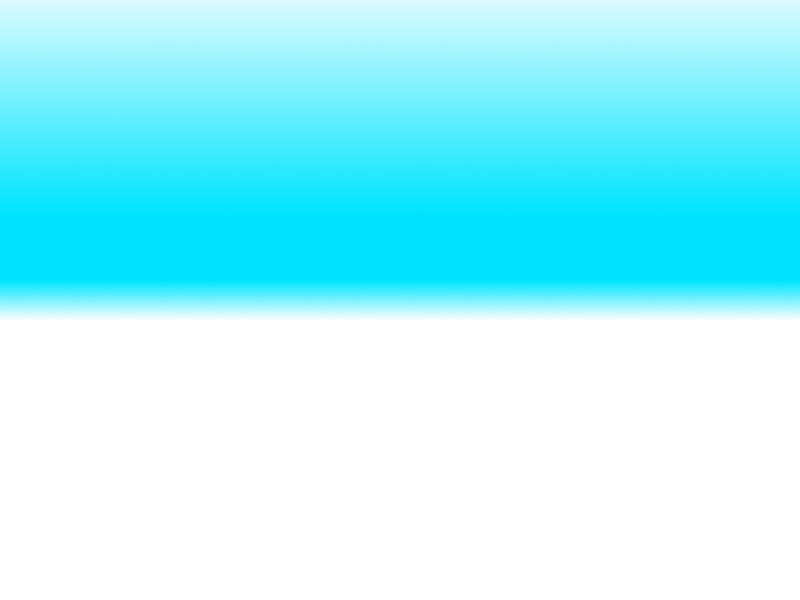
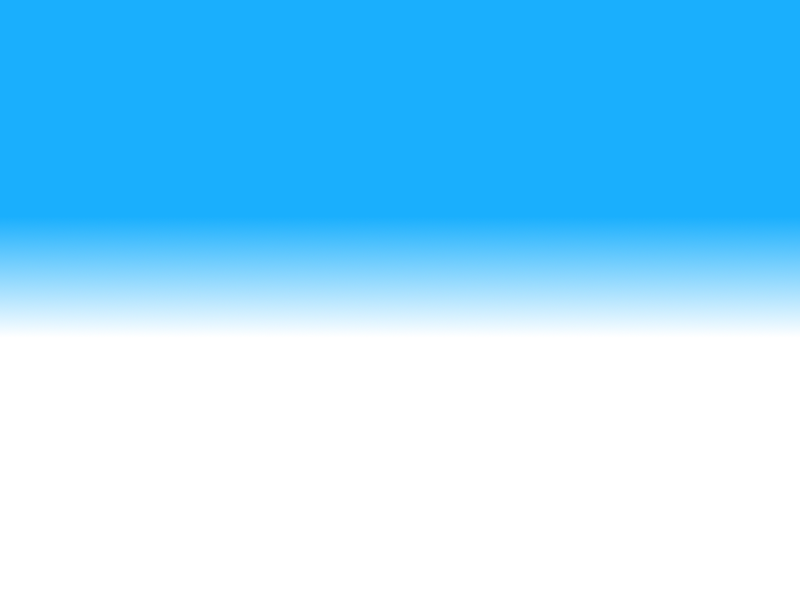
adjust colors and lighting

diff --git a/src/main.js b/src/main.js
@@ -170,15 +170,15 @@ ChatInstance.listen((emotes) => {
 /*
 	Ocean setup
 */
-const ambientLight = new THREE.AmbientLight(new THREE.Color('#1EFFF7'), 0.25);
+const ambientLight = new THREE.AmbientLight(new THREE.Color('#9EFFF7'), 0.1);
 const sunLight = new THREE.DirectionalLight(new THREE.Color('#FFFFFF'), 1);
-sunLight.position.set(0.1, 1, 0.25);
+sunLight.position.set(0.1, 1, -0.25);
 scene.add(ambientLight);
 scene.add(sunLight);
 
 import skyTextureURL from './sky.png';
 const skyTexture = new THREE.TextureLoader().load(skyTextureURL);
-scene.fog = new THREE.Fog(new THREE.Color('#FFFFFF'), 1, 80);
+scene.fog = new THREE.Fog(new THREE.Color('#FFFFFF'), 1, 100);
 
 const sky = new THREE.Mesh(new THREE.SphereBufferGeometry(500, 16, 8), new THREE.MeshBasicMaterial({
 	map: skyTexture,
@@ -190,9 +190,9 @@ scene.add(sky);
 const ocean = new THREE.Mesh(
 	new THREE.PlaneBufferGeometry(160, 60, Math.round(160 * 0.75), Math.round(60 * 0.75)),
 	new THREE.MeshStandardMaterial({
-		color: new THREE.Color('#009DFF'),
-		metalness: 0.4,
-		roughness: 0.75,
+		color: new THREE.Color('#2BD9E5'),
+		metalness: 0.2,
+		roughness: 1,
 		flatShading: true,
 	})
 );
